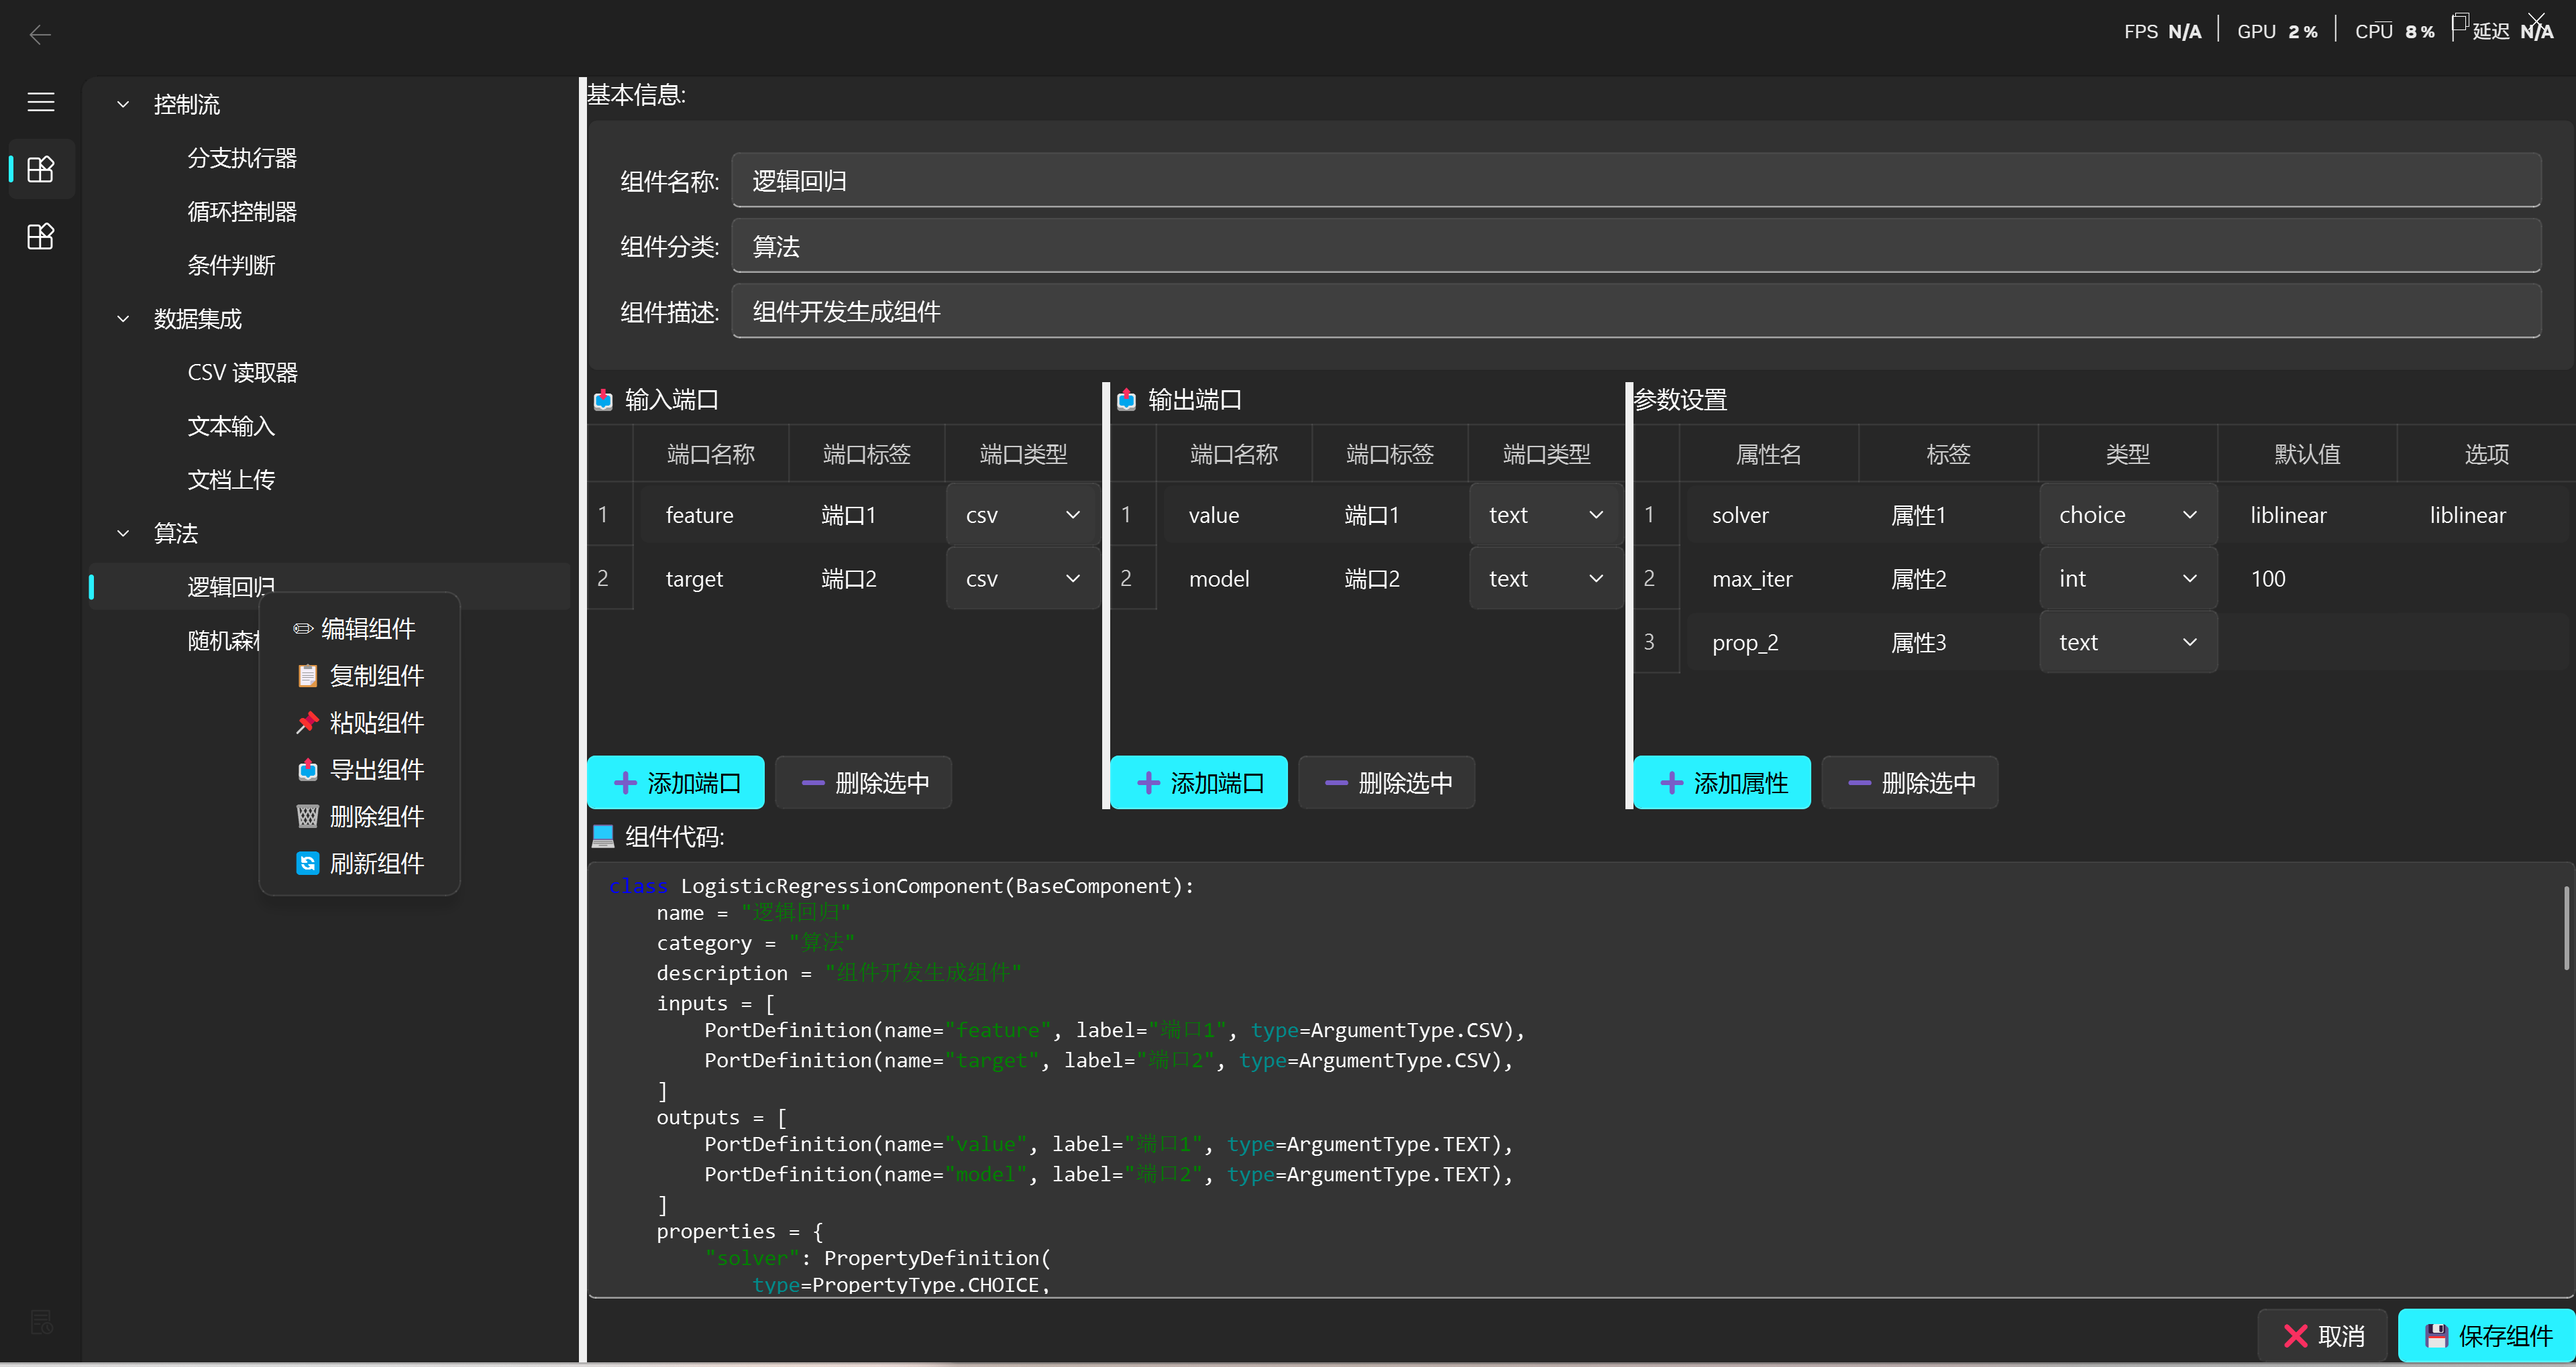
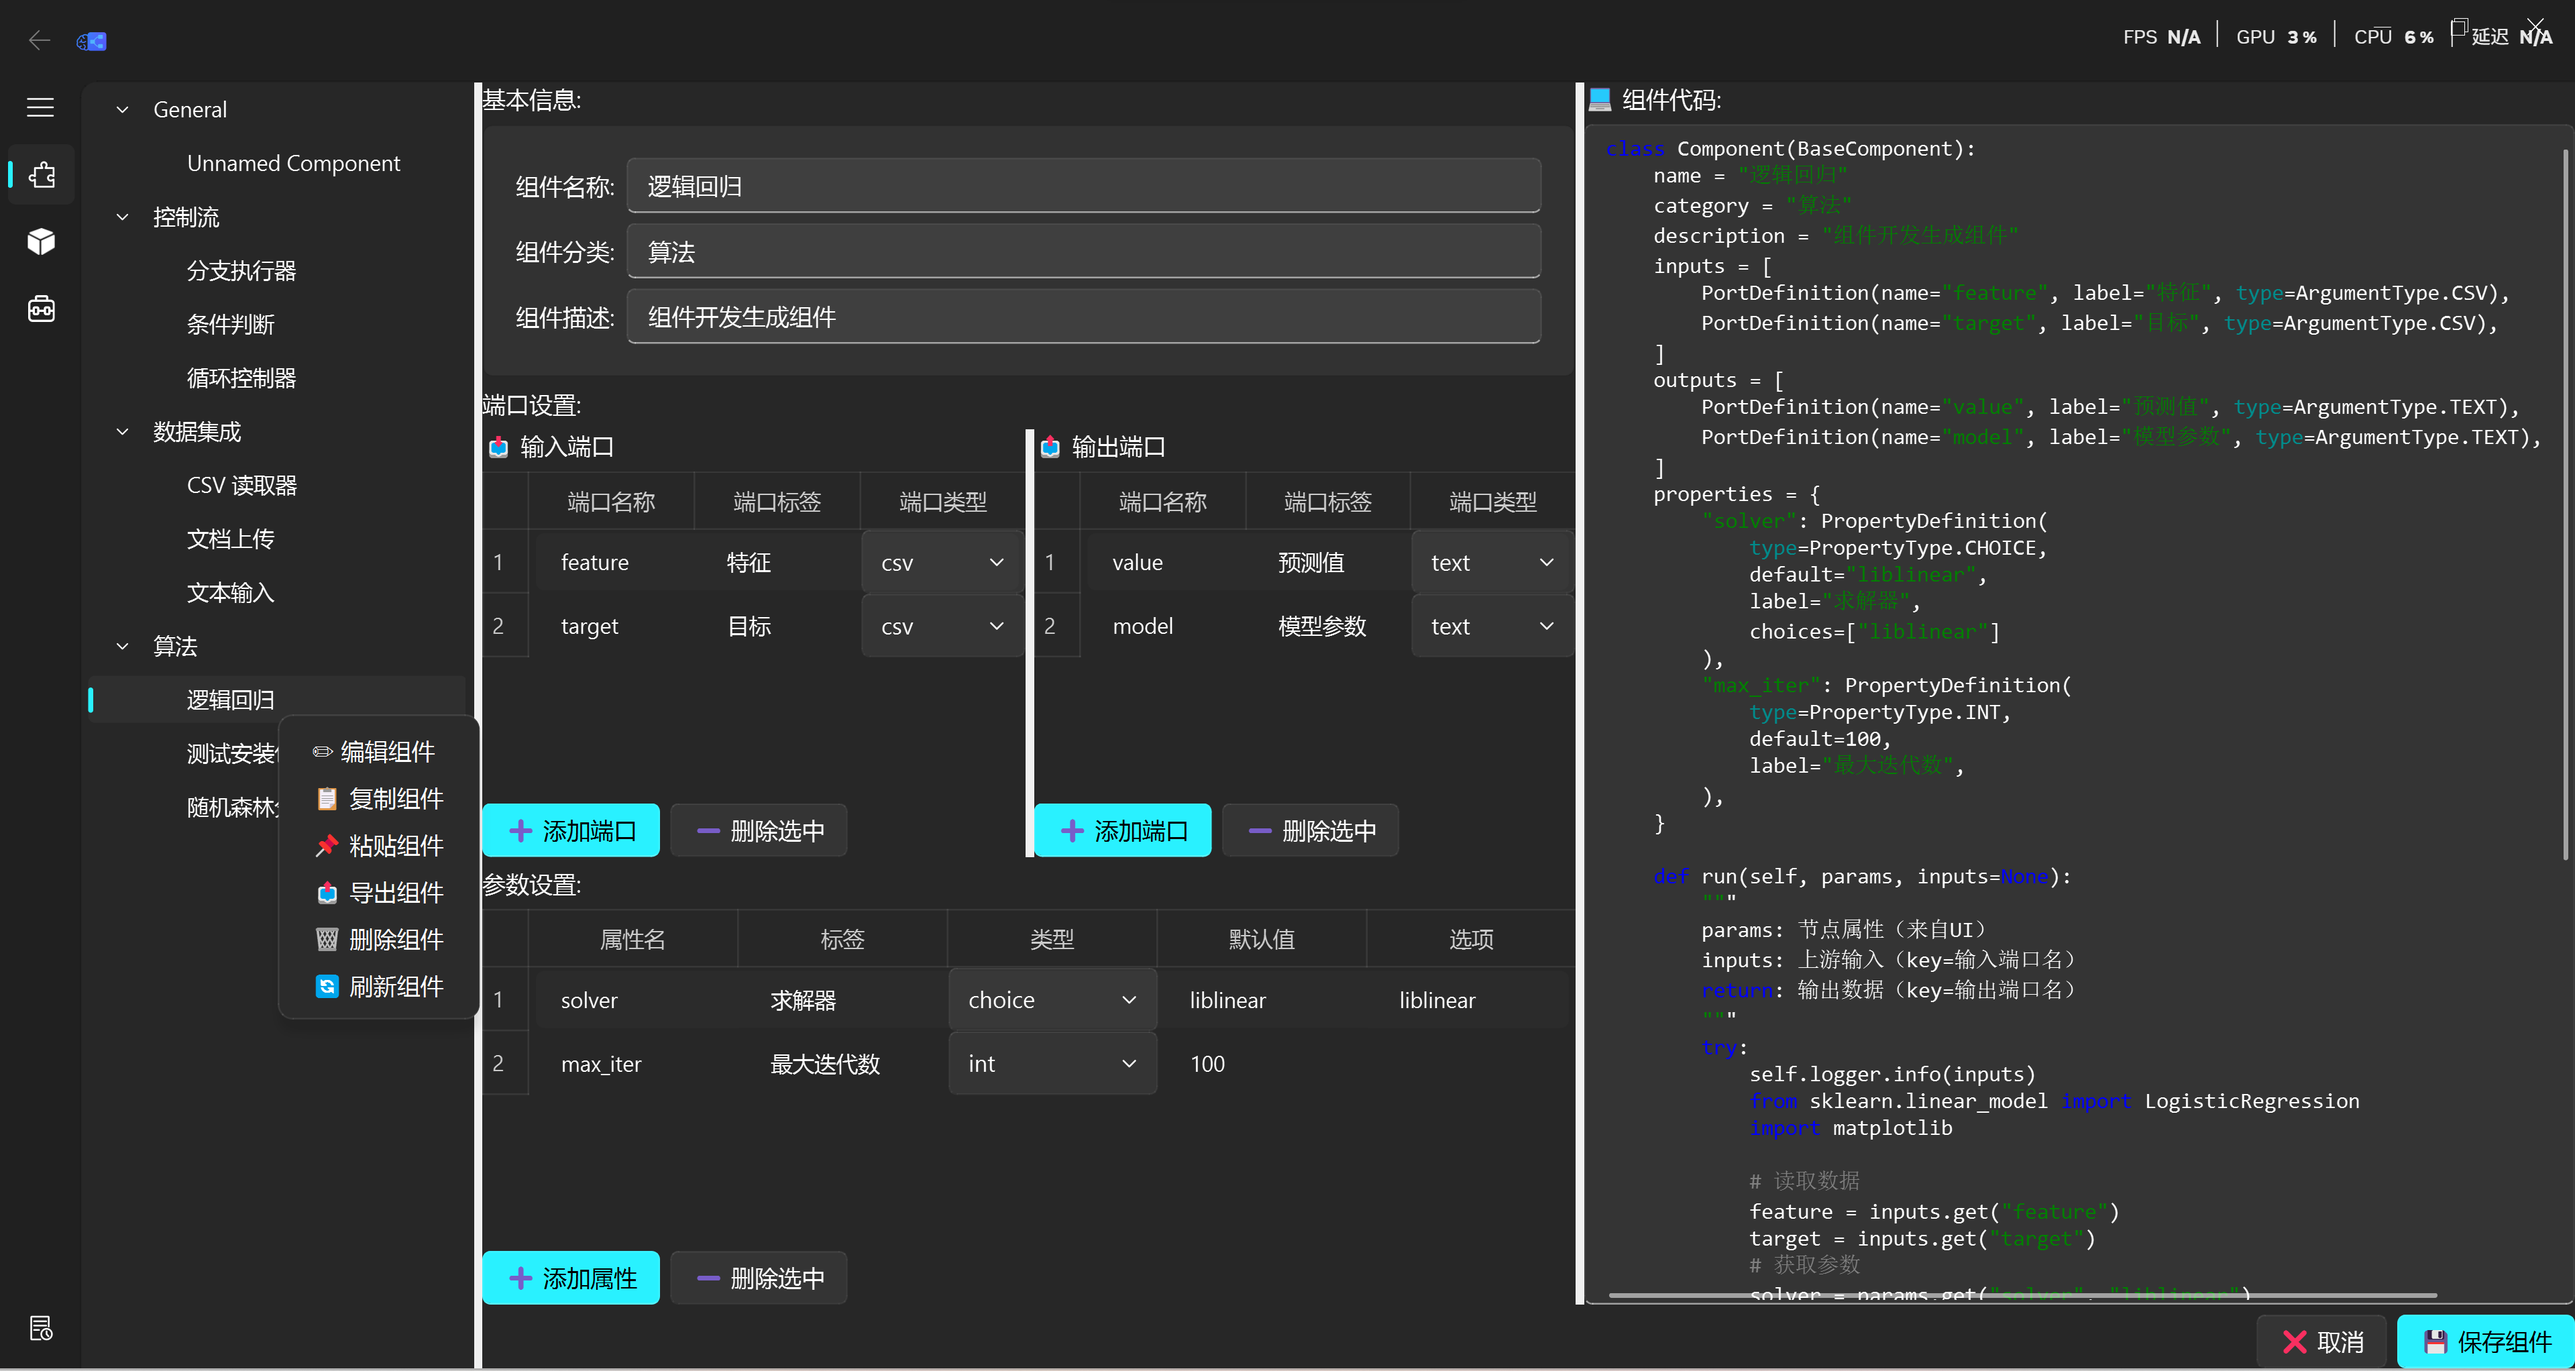
refactor(ui):重构组件开发界面布局
- 将开发区域改为左右两栏布局，提升空间利用率
-重新组织端口编辑器和属性编辑器的位置
- 调整分割器初始比例，优化视觉效果
- 移除了多余的标题标签，简化界面
- 修复了环境选择器的位置偏移问题
- 移除了未使用的seaborn导入语句
- 优化了QProcess实例的管理方式
- 添加了启动界面和窗口居中显示功能
- 更新了README中的图片路径和链接格式
- 调整了包管理界面的分割比例和窗口大小

diff --git a/README.md b/README.md
@@ -267,7 +267,7 @@ class MyComponent(BaseComponent):
 
 ## 📄 许可证
 
-本项目采用 [MIT 许可证](LICENSE)。
+本项目采用 [GPLv3 许可证](LICENSE)。
 
 ## 🙏 致谢
 
